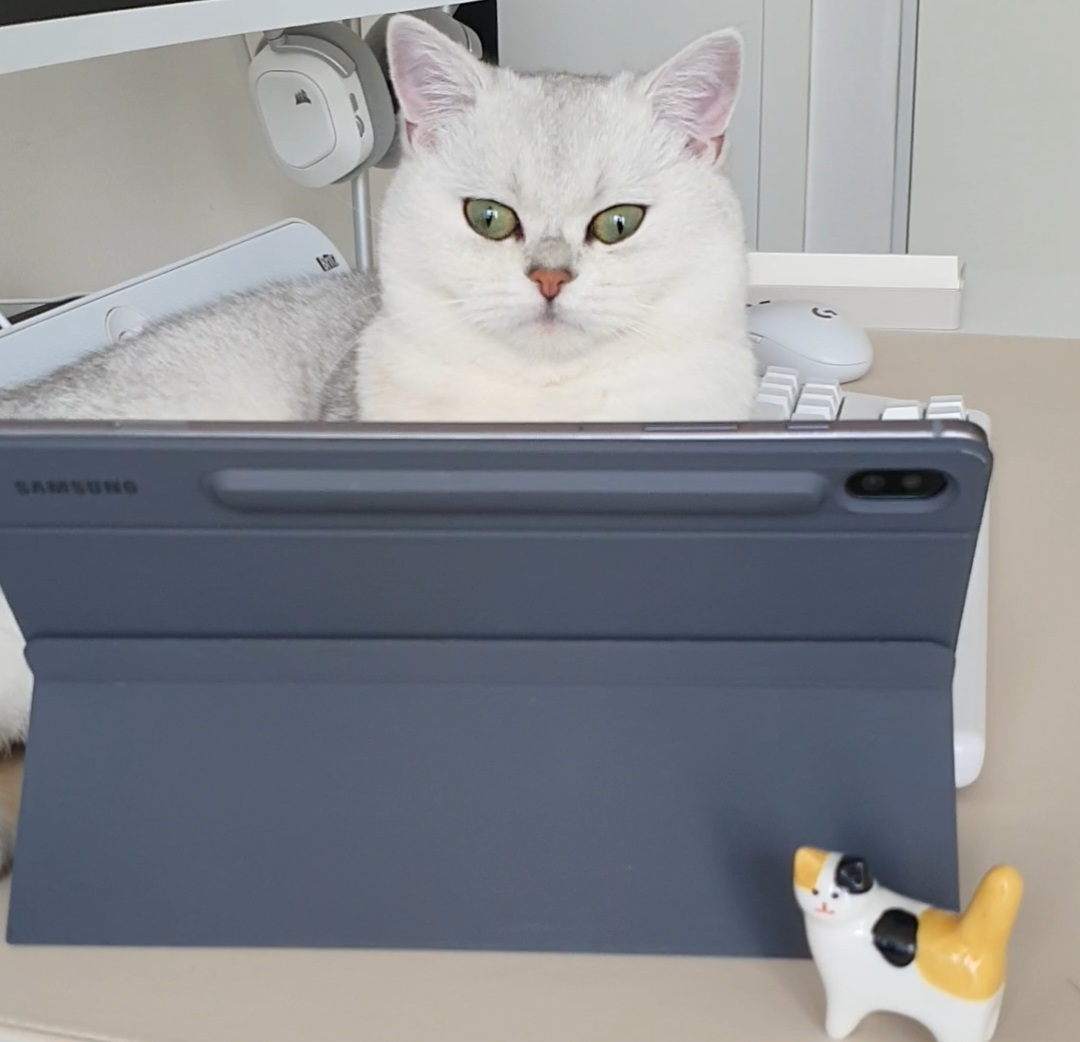
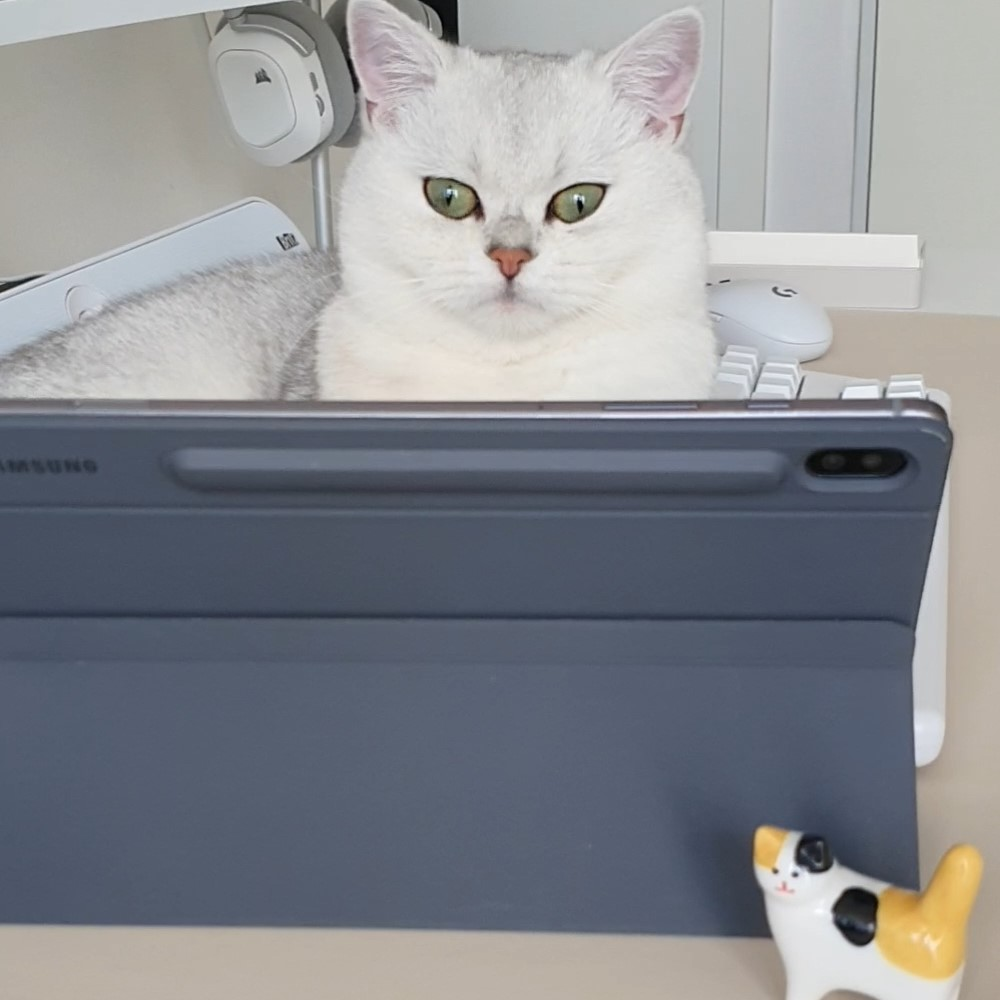
chore: 이미지 정배율로 교체

diff --git a/src/components/index/Profile.tsx b/src/components/index/Profile.tsx
@@ -24,7 +24,7 @@ const Profile = () => {
 
   return (
     <ProfileArea>
-      <ProfileImage src="/boris01.jpg" alt="Boris the cat" />
+      <ProfileImage src="/boris01.jpg" alt="Boris the cat" width={360} height={360}/>
       <ProfileDetails>
         <ProfileTitle>Hi! I'm Boris,<br/><RainbowText>A {getProfileText()}</RainbowText><br />My first React project.</ProfileTitle>
         <ProfileText>I love tuna🐟, chasing lasers💥, and now, coding!👨💻</ProfileText>
@@ -53,8 +53,8 @@ const ProfileDetails = styled.div`
 `;
 
 const ProfileImage = styled.img`
-  width: 50%;
-  height: auto;
+  width: 360px;
+  height: 360px;
   border-radius: 50%;
 `;
 
@@ -71,7 +71,7 @@ const ProfileText = styled.h2`
 
 const GreetButton = styled.button`
   width: 300px;
-  background-color: #4CAF50;
+  background-color: #000000;
   padding: 10px 20px;
   border: none;
   border-radius: 5px;
@@ -81,7 +81,6 @@ const GreetButton = styled.button`
   transition: all 0.3s ease;
 
   &:hover {
-    background-color: #3C9A4B;
     box-shadow: 0 5px 15px rgba(0, 0, 0, 0.3);
     transform: scale(1.05);
   }

diff --git a/src/components/index/index.tsx b/src/components/index/index.tsx
@@ -1,14 +1,14 @@
 import Templates from '../common/Templates'
-import YoutubeIFrame from './YoutubeIFrame';
-import PlaceholderContents from './PlaceholderContents';
 import Profile from './Profile';
+import PlaceholderContents from './PlaceholderContents';
+import YoutubeIFrame from './YoutubeIFrame';
 
 const Index = () => {
   return (
     <Templates>
       <Profile/>
       <PlaceholderContents />
-      <YoutubeIFrame />
+      {/* <YoutubeIFrame /> */}
     </Templates>
   )
 }

diff --git a/src/components/index/PlaceholderContents.tsx b/src/components/index/PlaceholderContents.tsx
@@ -4,6 +4,8 @@ import useJsonPlaceholder from '../../hooks/useJsonPlaceholder';
 const PlaceholderContents = () => {
   const data = useJsonPlaceholder();
 
+  if(!data) return null;
+
   return (
     <PlaceholderContentsArea>
       <h2>Contents</h2>
